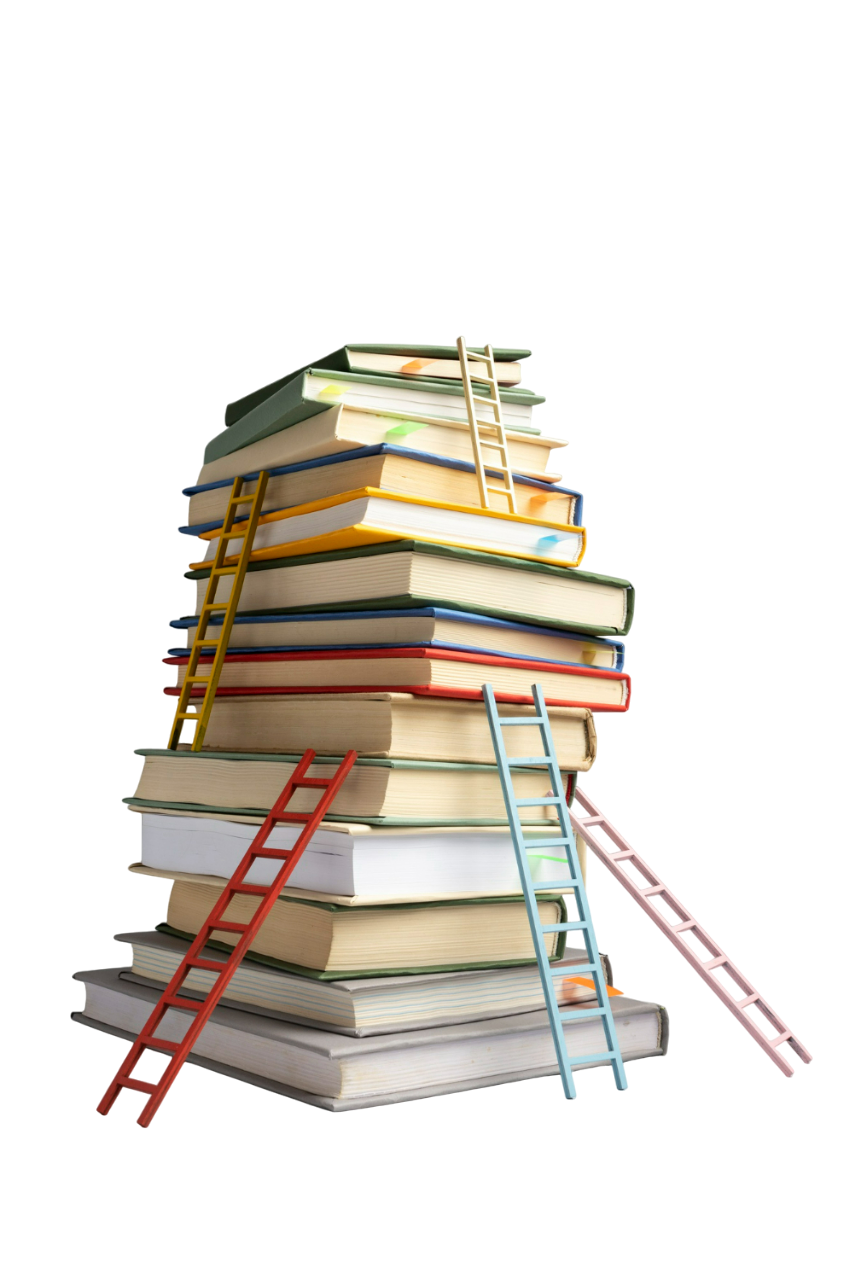
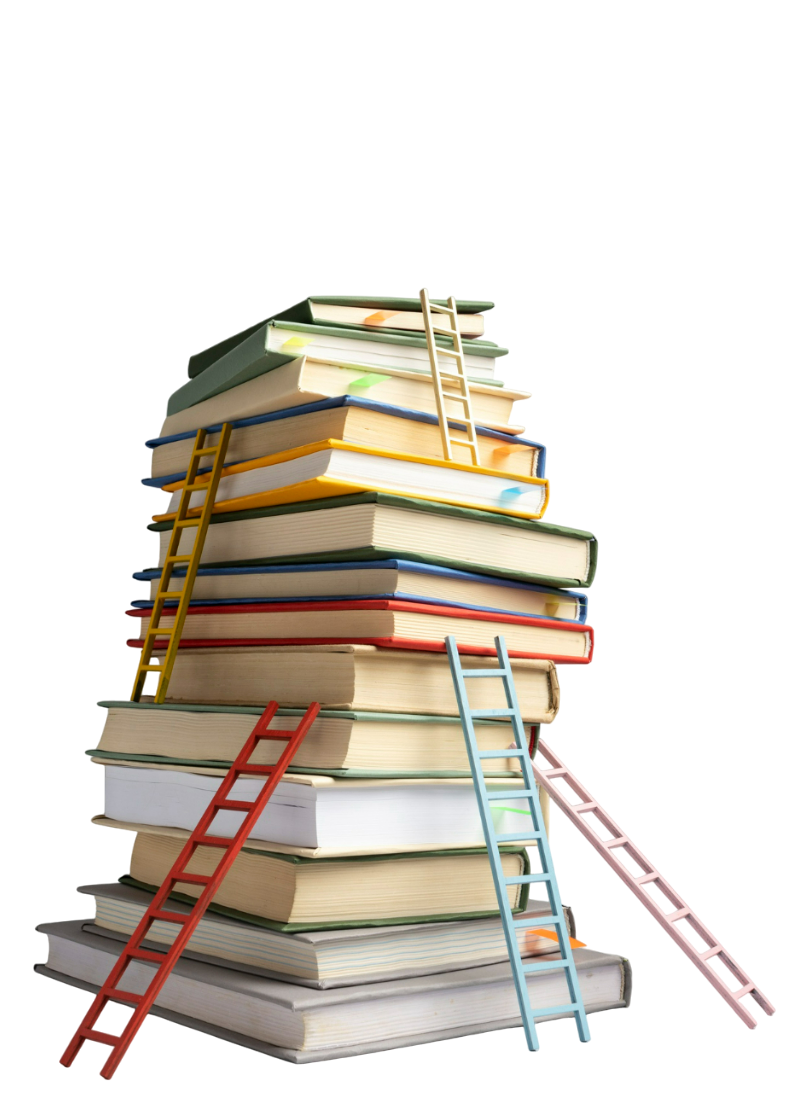
Updating about page

diff --git a/css/style.css b/css/style.css
@@ -391,6 +391,143 @@ button {
 
 /* banner section end */
 
+/* who we are (in about page) section start -------------------------------------------------------*/
+/* --- About Us: Who We Are (Light Background) --- */
+
+.about-us-wrapper {
+    overflow: hidden; /* Ensures special grid borders don't spill */
+}
+
+/* Subtitle "Our Story" */
+.about-text-col .section-top-subtitle {
+    color: #fd680c; /* Orange matching main team style */
+    font-size: 14px;
+    font-weight: 500;
+    letter-spacing: 2px;
+    margin-bottom: 5px;
+}
+
+/* "WE ARE" Highlight */
+.header-highlight {
+    color: #4b5961; /* Green matching main team style */
+}
+
+/* Descriptive Text */
+.about-description-para {
+    color: #6c757d; /* Clear grey description */
+    font-size: 16px;
+    line-height: 1.8;
+}
+
+/* --- Stat Counter --- */
+.stat-counter-grid {
+    border-top: 1px solid #e9ecef;
+    border-bottom: 1px solid #e9ecef;
+    padding: 25px 0;
+}
+
+.stat-counter-grid .stat-item h3 {
+    font-size: 40px;
+    font-weight: 700;
+    color: #4b5961; /* Main number color */
+    margin: 0;
+}
+
+.stat-counter-grid .stat-item p {
+    font-size: 13px;
+    text-transform: uppercase;
+    color: #6c757d;
+    letter-spacing: 1px;
+    margin: 5px 0 0;
+}
+
+/* Stat Divider Lines */
+.stat-divider {
+    width: 1px;
+    height: 50px;
+    background-color: #e9ecef;
+    align-self: center;
+    margin: 0 10px;
+}
+
+/* --- The Photo Grid Layout --- */
+.grid-layout {
+    display: grid;
+    grid-template-columns: repeat(2, 1fr);
+    grid-template-rows: repeat(2, 1fr);
+    gap: 20px;
+    position: relative;
+}
+
+/* General Image Grid Rules */
+.grid-layout img {
+    width: 100%;
+    height: 100%;
+    object-fit: cover;
+}
+
+/* (Grid-Tall): Team Picture on Left */
+.active-grid-1 {
+    grid-column: 1 / 2;
+    grid-row: 1 / 3;
+    aspect-ratio: 9/12;
+}
+
+/* (Grid-Tall): Green Special Border Radius */
+.grid-with-border img {
+    border: 1px solid #4b5961;
+    border-radius: 100px 10px 100px 10px;
+    padding: 10px;
+    background-color: white; /* Needed for padding/inset border look */
+}
+
+/* (Grid-Small): Active Picture 1 (Top Right) */
+.active-grid-2 {
+    grid-column: 2 / 3;
+    grid-row: 1 / 2;
+    aspect-ratio: 16/10;
+}
+
+/* (Grid-Small): Active Picture 2 (Bottom Right) */
+.active-grid-3 {
+    grid-column: 2 / 3;
+    grid-row: 2 / 3;
+    aspect-ratio: 16/10;
+}
+
+/* Standard Border Radius for Small active photos */
+.rounded-10 {
+    border-radius: 10px;
+}
+
+/* --- Responsive Layout Rules --- */
+@media (max-width: 991px) {
+    .about-text-col {
+        text-align: center;
+    }
+    .stat-counter-grid {
+        justify-content: center;
+    }
+}
+
+@media (max-width: 767px) {
+    .grid-layout {
+        gap: 10px;
+    }
+    /* Simple mobile flow: Big photo first, then others follow */
+    .active-grid-1, .active-grid-2, .active-grid-3 {
+        grid-column: 1 / 3;
+        grid-row: auto;
+        aspect-ratio: 16/10;
+    }
+    .active-grid-1 {
+        aspect-ratio: 1 / 1; /* Make team photo square on mobile for better fit */
+    }
+    /* Small mobile adjustment: Reduce stat lines on mobile */
+    .stat-divider { display: none; }
+}
+
+/* who we are (in about page) section end -------------------------------------------------------*/
 
 /* about section start -------------------------------------------------------*/
 

diff --git a/about.html b/about.html
@@ -131,6 +131,44 @@
          </div>
       </div>
       <!-- header section end -->     
+
+ <!-- who we are section start -->
+<section class="about-us-wrapper bg-white py-5">
+    <div class="container py-lg-5">
+        <div class="row align-items-center">
+            
+            <div class="col-lg-5 col-md-12 mb-5 mb-lg-0 about-text-col">
+                <p class="section-top-subtitle text-uppercase">OUR STORY</p>
+                <h1 class="main-heading-about mb-4">WHO <span class="header-highlight">WE ARE</span></h1>
+                <p class="about-description-para mb-5">Yuvadhara Panangangara is more than just a club; its a dedication to community. With over four decades of history, we are a group of passionate individuals committed to fostering growth through sports, arts, and educational initiatives. Our goal is to nurture talent, build lifelong connections, and create a positive, lasting impact within our locality.</p>
+                
+                <div class="stat-counter-grid d-flex flex-wrap text-center">
+                    <div class="stat-item flex-fill"><h3>219</h3><p>MEMBERS</p></div>
+                    <div class="stat-divider"></div>
+                    <div class="stat-item flex-fill"><h3>16</h3><p>EXECUTIVE MEMBERS</p></div>
+                    <div class="stat-divider"></div>
+                    <div class="stat-item flex-fill"><h3>40+</h3><p>YEARS OF MASTERY</p></div>
+                </div>
+            </div>
+
+            <div class="col-lg-7 col-md-12 about-images-col">
+                <div class="grid-layout">
+                    <div class="active-grid-1 grid-tall grid-with-border">
+                        <img src="images/about-img.png" alt="Yuvadhara Team" class="img-fluid rounded-10">
+                    </div>
+                    <div class="active-grid-2 grid-small">
+                        <img src="images/about-img.png" alt="Yuvadhara Sports" class="img-fluid rounded-10">
+                    </div>
+                    <div class="active-grid-3 grid-small">
+                        <img src="images/about-img.png" alt="Yuvadhara Culture" class="img-fluid rounded-10">
+                    </div>
+                </div>
+            </div>
+        </div>
+    </div>
+</section>
+ <!-- who we are section end -->
+
       <!-- about section start -->
 <div class="about_section layout_padding modern-dark-theme">
     <div class="container">

diff --git a/Library.html b/Library.html
@@ -231,7 +231,7 @@
                             <button class="search-button"><i class="fa fa-search"></i></button>
                         </div>
                     </div>
-                    <div class="book-mockup"><img src="images/Library/book library cover.png" alt="Digital"></div>
+                    <div class="book-mockup"><img src="images/Library/Digital library cover-Photoroom.png" alt="Digital"></div>
                 </div>
             </div>
             <div class="bookshelf ebook-bookshelf-bg">
